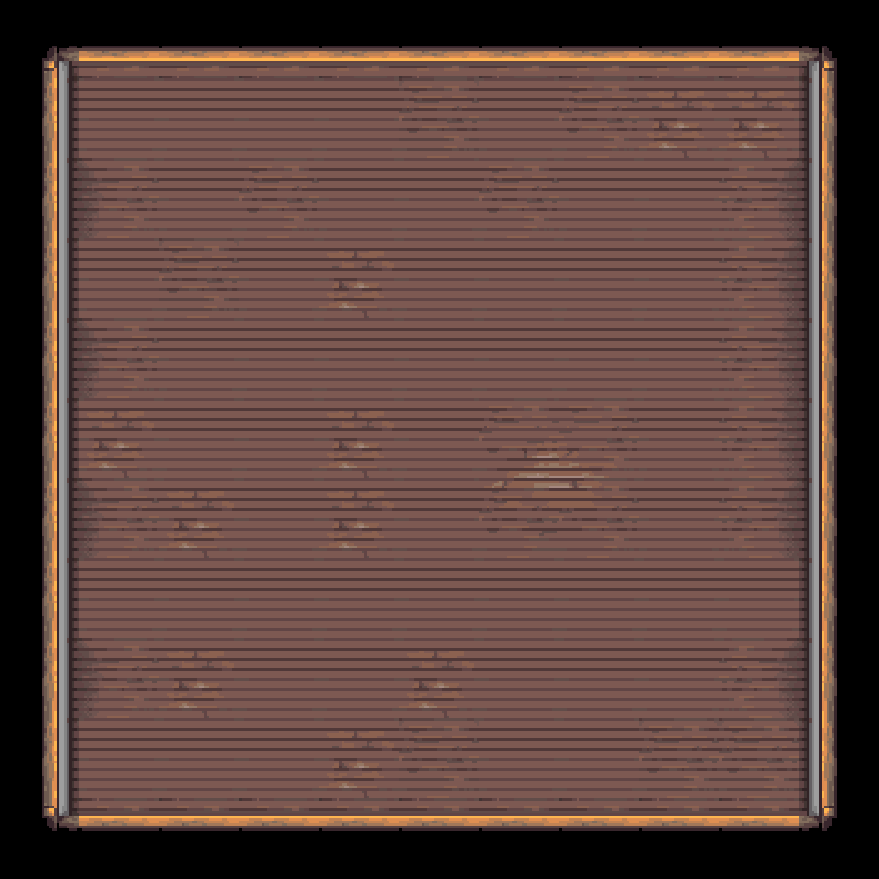
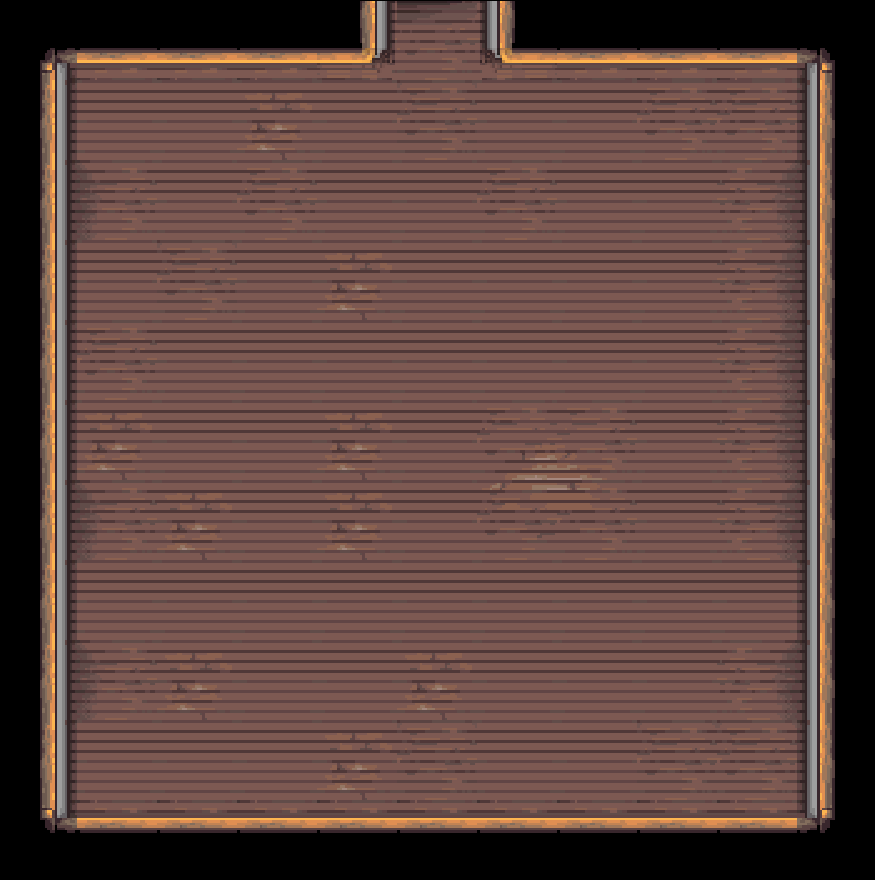
stuff

Changed region(s): [[0.0309, 0.0, 0.9566, 0.9522]]

diff --git a/Sem1OfficeRevenge/LevelGeneration/Room.cs b/Sem1OfficeRevenge/LevelGeneration/Room.cs
@@ -1,5 +1,6 @@
 using System;
 using System.Collections.Generic;
+using System.Drawing.Design;
 using System.Linq;
 using System.Text;
 using System.Threading.Tasks;
@@ -15,13 +16,14 @@ namespace Sem1OfficeRevenge
         public Texture2D map;
         int width;
         int height;
+        private Vector2 origin;
+        private Vector2 center;
 
         public Room(Texture2D Map)
         {
             this.map = Map;
+            //center = new Vector2(Global.graphics.GraphicsDevice.Viewport.Width / 2, Global.graphics.GraphicsDevice.Viewport.Height / 2);
 
-            width = Global.graphics.PreferredBackBufferWidth;
-            height = Global.graphics.PreferredBackBufferHeight;
         }
         
         public override void Update()
@@ -31,7 +33,11 @@ namespace Sem1OfficeRevenge
 
         public override void Draw()
         {
-            Global.spriteBatch.Draw(GlobalTextures.textures[TextureNames.TileMap1], new Vector2(width / 2, height / 2), Color.White);
+            Vector2 origin = new Vector2(GlobalTextures.textures[TextureNames.TileMap1].Width / 2, GlobalTextures.textures[TextureNames.TileMap1].Height / 2);
+            center = new Vector2(Global.graphics.GraphicsDevice.Viewport.Width / 2, Global.graphics.GraphicsDevice.Viewport.Height / 2);
+            //UseCenterOrigin = true;
+
+            Global.spriteBatch.Draw(GlobalTextures.textures[TextureNames.TileMap1], center, null, Color.White, rotation, origin, scale, SpriteEffects.None, layerDepth);
         }
 
     }

diff --git a/Sem1OfficeRevenge/World/GameWorld.cs b/Sem1OfficeRevenge/World/GameWorld.cs
@@ -21,7 +21,7 @@ namespace Sem1OfficeRevenge
 
         protected override void Initialize()
         {
-            WindowedScreen();
+            //WindowedScreen();
             GlobalTextures.LoadContent();
             GlobalAnimations.LoadContent();
 
@@ -30,7 +30,7 @@ namespace Sem1OfficeRevenge
             GenerateScenes();
             activeSceneIndex = 1;
             Global.currentScene = scenes[activeSceneIndex];
-            camera = new Camera(new Vector2(Global.graphics.PreferredBackBufferWidth / 2, Global.graphics.PreferredBackBufferHeight / 2));
+            //camera = new Camera(new Vector2(Global.graphics.PreferredBackBufferWidth / 2, Global.graphics.PreferredBackBufferHeight / 2));
             scenes[activeSceneIndex].Initialize();
 
 

diff --git a/Sem1OfficeRevenge/Scenes/TestSceneJasper.cs b/Sem1OfficeRevenge/Scenes/TestSceneJasper.cs
@@ -25,7 +25,7 @@ namespace Sem1OfficeRevenge
         public override void Initialize()
         {
             // lvlGen.GenerateLevel();
-
+            
             Global.graphics.IsFullScreen = false;
             Global.graphics.PreferredBackBufferWidth = 1920;
             Global.graphics.PreferredBackBufferHeight = 1080;
@@ -38,12 +38,12 @@ namespace Sem1OfficeRevenge
 
         public override void DrawInWorld()
         {
-            
+
             foreach (Room room in rooms)
             {
                 room.Draw();
             }
-            
+
             base.DrawInWorld();
             
         }

diff --git a/Sem1OfficeRevenge/LevelGeneration/LevelGeneration.cs b/Sem1OfficeRevenge/LevelGeneration/LevelGeneration.cs
@@ -4,8 +4,7 @@ using System.Linq;
 using System.Text;
 using System.Threading.Tasks;
 using Microsoft.Xna.Framework.Graphics;
-using MonoGame.Extended.Tiled;
-using MonoGame.Extended.Tiled.Renderers;
+
 
 
 namespace Sem1OfficeRevenge
